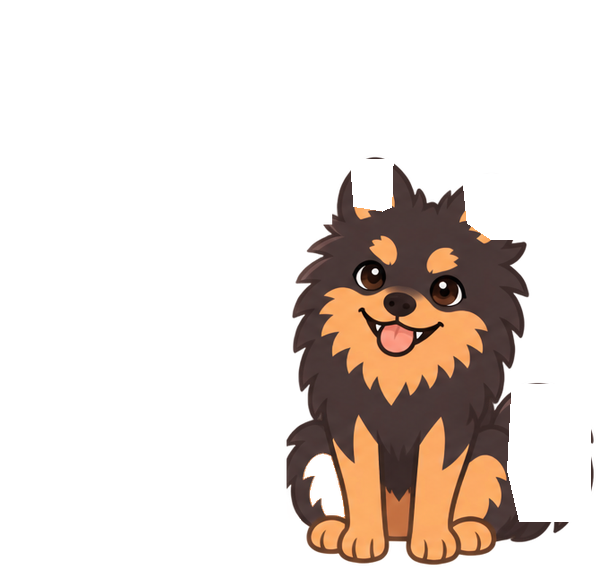
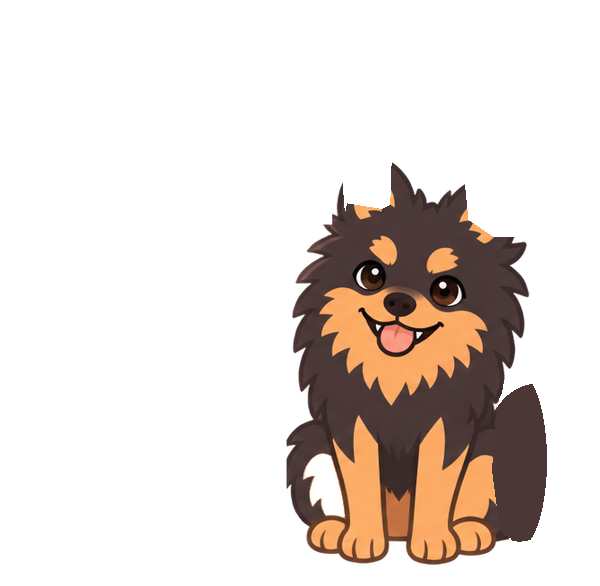
Chiens : découpe propre de la queue et des oreilles, mouvements plus visibles
Claude-Session: https://claude.ai/code/session_014JHnqweikjBWA21hJdwDRN

diff --git a/index.html b/index.html
@@ -71,10 +71,10 @@ main{flex:1;min-height:0;display:flex;flex-direction:column}
 .adm-p{position:absolute;inset:0;width:100%;height:100%;user-select:none;-webkit-user-select:none;pointer-events:none}svg.adm-p{overflow:visible}
 .adm-lid{transform-box:view-box;transform:scaleY(0)}.adm-blinkL{animation:admBlink 5.6s infinite 1.2s}.adm-blinkM{animation:admBlink 4.3s infinite .4s}
 @keyframes admBlink{0%,92%,100%{transform:scaleY(0)}94.5%,95.5%{transform:scaleY(1)}}
-.adm-earL{animation:admEar 7.4s ease-in-out infinite 2.4s;--a:3deg}.adm-earR{animation:admEar 7.4s ease-in-out infinite 2.55s;--a:-3deg}
-.adm-earM{animation:admEar 6.2s ease-in-out infinite 3.6s;--a:-4deg}.adm-earM2{animation:admEar 8.6s ease-in-out infinite 1.1s;--a:4deg}
+.adm-earL{animation:admEar 7.4s ease-in-out infinite 2.4s;--a:5deg}.adm-earR{animation:admEar 7.4s ease-in-out infinite 2.55s;--a:-5deg}
+.adm-earM{animation:admEar 6.2s ease-in-out infinite 3.6s;--a:-8deg}.adm-earM2{animation:admEar 8.6s ease-in-out infinite 1.1s;--a:8deg}
 @keyframes admEar{0%,86%,100%{transform:rotate(0)}89%{transform:rotate(var(--a))}92%{transform:rotate(calc(var(--a) * -.4))}95%{transform:rotate(0)}}
-.adm-wag{animation:admWag 2.6s ease-in-out infinite}@keyframes admWag{0%,100%{transform:rotate(-3deg)}50%{transform:rotate(3deg)}}
+.adm-wag{animation:admWag 2.6s ease-in-out infinite}@keyframes admWag{0%,100%{transform:rotate(-4.5deg)}50%{transform:rotate(4.5deg)}}
 .adm-night .adm-i{bottom:6%}
 @keyframes admBreath{0%,100%{transform:scale(1,1)}50%{transform:scale(1.006,1.014)}}
 @keyframes admTilt{0%,82%,100%{rotate:0deg}87%{rotate:-1.4deg}93%{rotate:.8deg}}
@@ -856,10 +856,10 @@ function cycleHTML(){const c=S._cy,D=S.cycle.days,k=S.cyDay,e=D[k]||{},PINK='#ED
 const itIcon=(it,sz)=>{if(it.bday)return kw('gateau',sz);if(it.chore){const c=S.chores.find(x=>x.id===it.chore);if(c&&c.sub)return charSvg(c.sub,'ok',Math.round(sz*1.12))}return kw(it.theme,sz)};
 
 /* ---- AnimatedDogMascots : Lila (gauche, plus grande) et le chien noir et feu (droite). Jour 5 h–20 h, nuit 20 h–5 h, heure locale, sans réseau ---- */
-const ADM_V='76',admNight=()=>{const h=new Date().getHours();return h>=20||h<5};
+const ADM_V='78',admNight=()=>{const h=new Date().getHours();return h>=20||h<5};
 const admStill=()=>{try{return matchMedia('(prefers-reduced-motion: reduce)').matches}catch(e){return false}};
 const ADM_DAY={l:{n:'lila',parts:[['earl','24.2% 11.9%','adm-earL'],['earr','48.3% 11.6%','adm-earR']],eyes:[[191,120,21,19],[273,117,18,19]],lid:'#4B3A37',bl:'adm-blinkL'},
- r:{n:'misha',parts:[['tail','84.2% 80.2%','adm-wag'],['earl','64.7% 36.5%','adm-earM'],['earr','78% 38.9%','adm-earM2']],eyes:[[371,272,21,20],[445,290,19,18]],lid:'#473634',bl:'adm-blinkM'}};
+ r:{n:'misha',parts:[['tail','83.3% 81.9%','adm-wag'],['earl','64.7% 36.5%','adm-earM'],['earr','78% 38.9%','adm-earM2']],eyes:[[371,272,21,20],[445,290,19,18]],lid:'#473634',bl:'adm-blinkM'}};
 function AnimatedDogMascots(w=280){const n=admNight(),img=(f,cls='',st='')=>`<img class="adm-p ${cls}" src="mascots/${f}.png?v=${ADM_V}" alt="" draggable="false"${st?` style="${st}"`:''}>`,
  dog=(d,m)=>{if(m==='night')return `<img class="adm-i adm-${d}" src="mascots/${d==='l'?'lila':'misha'}-night.png?v=${ADM_V}" alt="" draggable="false">`;const D=ADM_DAY[d];
   return `<div class="adm-i adm-${d}">${img(D.n+'-day-base')}${D.parts.map(([p,o,c])=>img(D.n+'-day-'+p,c,'transform-origin:'+o)).join('')}<svg class="adm-p" viewBox="0 0 600 586">${D.eyes.map(([x,y,rx,ry])=>`<g class="adm-lid ${D.bl}" style="transform-origin:${x}px ${y-ry}px"><ellipse cx="${x}" cy="${y}" rx="${rx}" ry="${ry}" fill="${D.lid}"/><path d="M${x-rx+3} ${y+2}q${rx-3} ${ry*.5} ${2*rx-6} 0" stroke="#1E1412" stroke-width="3.2" fill="none" stroke-linecap="round"/></g>`).join('')}</svg></div>`};
@@ -2288,7 +2288,7 @@ housekeeping();
 render();
 loadWeather();
 (function waitLib(n){if(window.supabase&&window.supabase.createClient)sync.boot();else if(n<60)setTimeout(()=>waitLib(n+1),250);else{authed()?hideGate():showGate()}})(0);
-const APP_VER='76';
+const APP_VER='78';
 if('serviceWorker' in navigator&&location.protocol==='https:')window.addEventListener('load',()=>navigator.serviceWorker.register('sw.js',{updateViaCache:'none'}).catch(()=>{}));
 function checkUpdate(){if(location.protocol!=='https:'||!navigator.onLine)return;
   fetch('version.json?t='+Date.now(),{cache:'no-store'}).then(r=>r.ok?r.json():null).then(v=>{

diff --git a/sw.js b/sw.js
@@ -1,5 +1,5 @@
 /* Service worker : l'agenda fonctionne hors ligne. Les données passent par Supabase (non interceptées). */
-var CACHE='agenda-v76';
+var CACHE='agenda-v78';
 var SHELL=['./','./index.html','./manifest.webmanifest','./icon-180.png','./icon-192.png','./icon-512.png'];
 var LIB='https://cdn.jsdelivr.net/npm/@supabase/supabase-js@2.45.4/dist/umd/supabase.js';
 var FONTS='https://fonts.googleapis.com/css2?family=Zen+Maru+Gothic:wght@500;700&family=Nunito:wght@400;500;600;700;800&display=swap';
